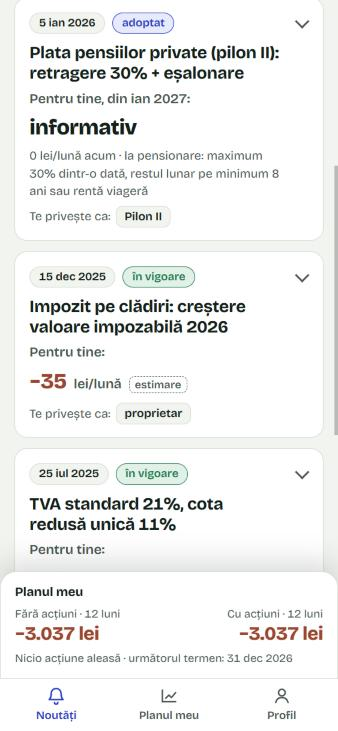
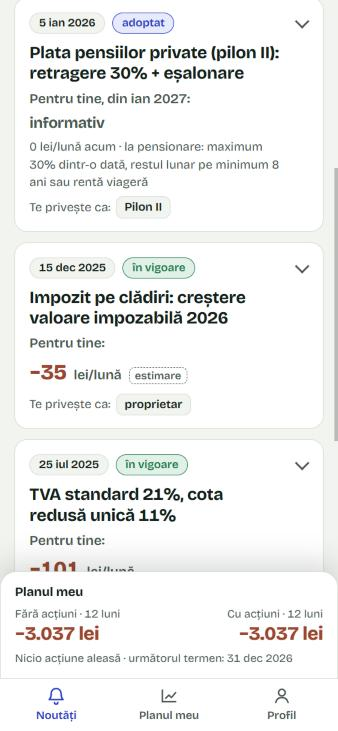
Mockup v2: smaller 'informativ' label, re-verified captures, dividend deadline capture

diff --git a/.claude/session-state.md b/.claude/session-state.md
@@ -1,6 +1,6 @@
 # Session state
 
-Updated: 2026-10-28 14:35
+Updated: 2026-10-28 14:55
 
 ## Context
 Hackathon Nexxt × Stripe "Rethinking Financial Futures" (Romania only). Product: **"Ce înseamnă pentru mine"**. Locked direction (v2, 28 Oct 2026, with Andrei): standalone app, no bank integrations, no Stripe for now; strictly financial impact across niches; profile = tags incl. work domain; onboarding by chat with an assistant (placeholder in mockup) with form fallback; feed of notifications, each item ends in lei/month + dated action + link to the law article + "te privește ca: tags"; statuses proiect / adoptat / în vigoare / termen depășit. Non-financial effects are a later step. Plan file (v1, partly superseded): `~/.claude/plans/make-a-mockup-based-effervescent-sutherland.md`.
@@ -10,7 +10,7 @@ Hackathon Nexxt × Stripe "Rethinking Financial Futures" (Romania only). Product
 - v2 `mockup/index.html`: notification overlay (hero = Pilon II payout, Legea 2/2026, applies 5 Jan 2027; header shows "5 ian 2026 · demo"), three tabs (Noutăți feed, Planul meu, Profil with tag chips + chat placeholder), 12 rules with verified act / MO ref / Portal Legislativ link / article / explanatory source / "verificat la", tag intersection drives the feed per persona (Andrei IT+SRL, Maria PFA HoReCa, Ion pensionar). TODAY = 2026-10-28. My edits on top of the builder: CTA uses window.scrollTo (scrollIntoView scrolled the embedding pane); `.imp .v.zero` 17px for "informativ".
 - `docs/produs.md` / `docs/product.md` rewritten for v2 (tags, feed, notification, standalone, no Stripe, "Mai departe" for non-financial) + Sources table with legislatie.just.ro links and confidence per rule.
 - `docs/research-v2.md`: researcher output (13 rows). Window 1 Sep–28 Oct 2026: no new act found, hence the Pilon II hero.
-- Captures `captures/v2-0*.jpg` (phone 375px, RO and EN, Andrei and Maria, expanded Pilon II card with legal source, profile tab).
+- Captures `captures/v2-0*.jpg` (phone 375px, RO and EN, Andrei and Maria, expanded Pilon II card with legal source, dividend card "deadline passed", profile tab). Verified in DOM: simulate toggle moves the bar (−11.248 → −11.048), 7 Portal Legislativ IDs match research, dividend switch disabled.
 - Artifact of the mockup: https://claude.ai/artifact/TXdexkw3rpvSMaU25mHW4n (republish from mockup/index.html keeps the URL).
 
 ## Done (session 2, same clone)
@@ -22,7 +22,7 @@ Hackathon Nexxt × Stripe "Rethinking Financial Futures" (Romania only). Product
 - On approval → prototype (Vite + React + TS, rule engine with tests, tag matching, no Stripe) per plan file Slice 3, updated for v2.
 
 ## Open in tools
-- Browser pane: http://localhost:8765 (preview "mockup", serves ./mockup). Port 8766 = session 2's description page.
+- Browser pane: http://localhost:8767 (preview "mockup-v2", absolute path to ./mockup; "mockup" on 8765 resolved against the old session folder). Port 8766 = session 2 description page.
 - Branch: `andrei` on https://github.com/Voicu-Alex/runtime-terror-stripe, base `main`.
 
 ## Open questions for Andrei
